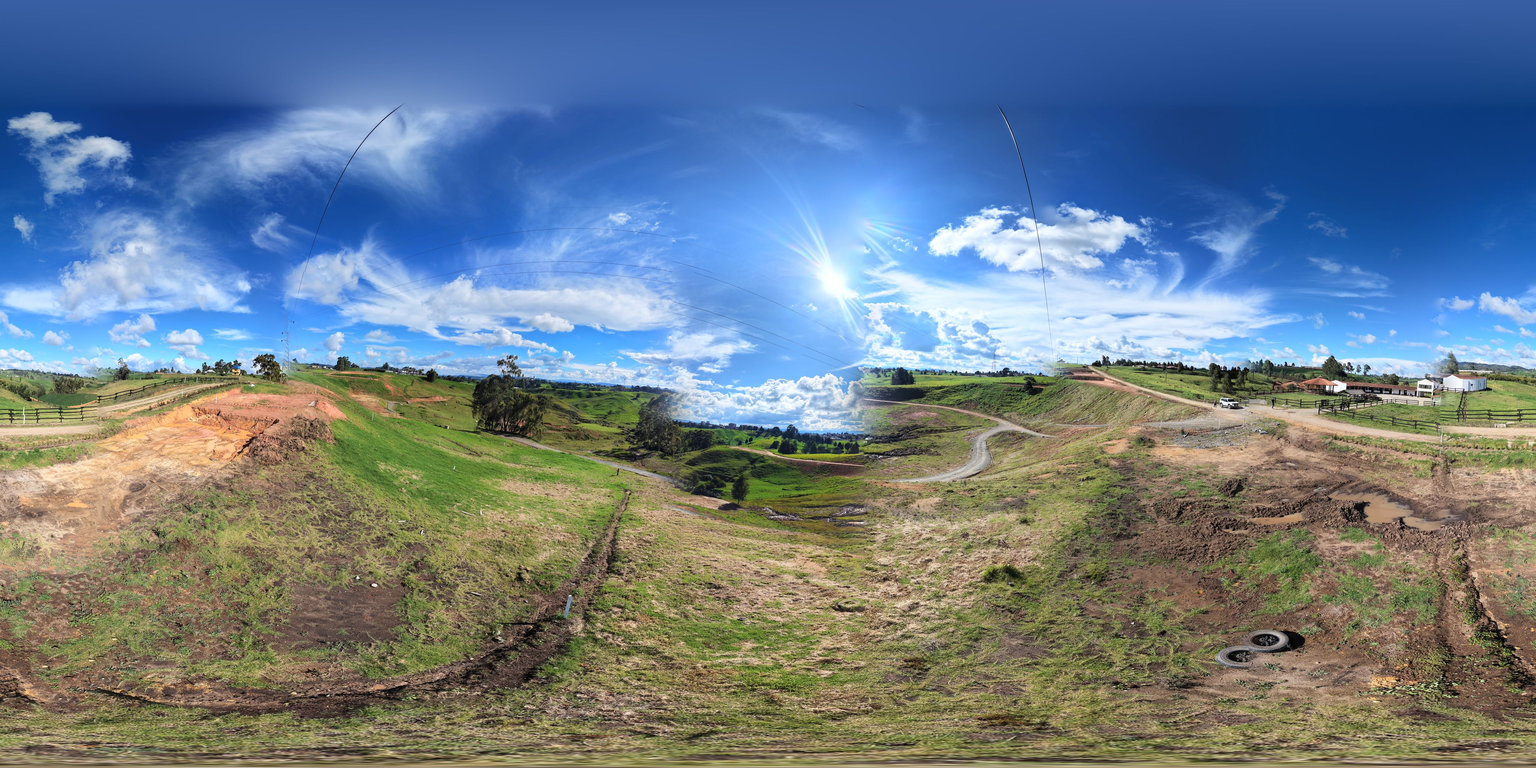
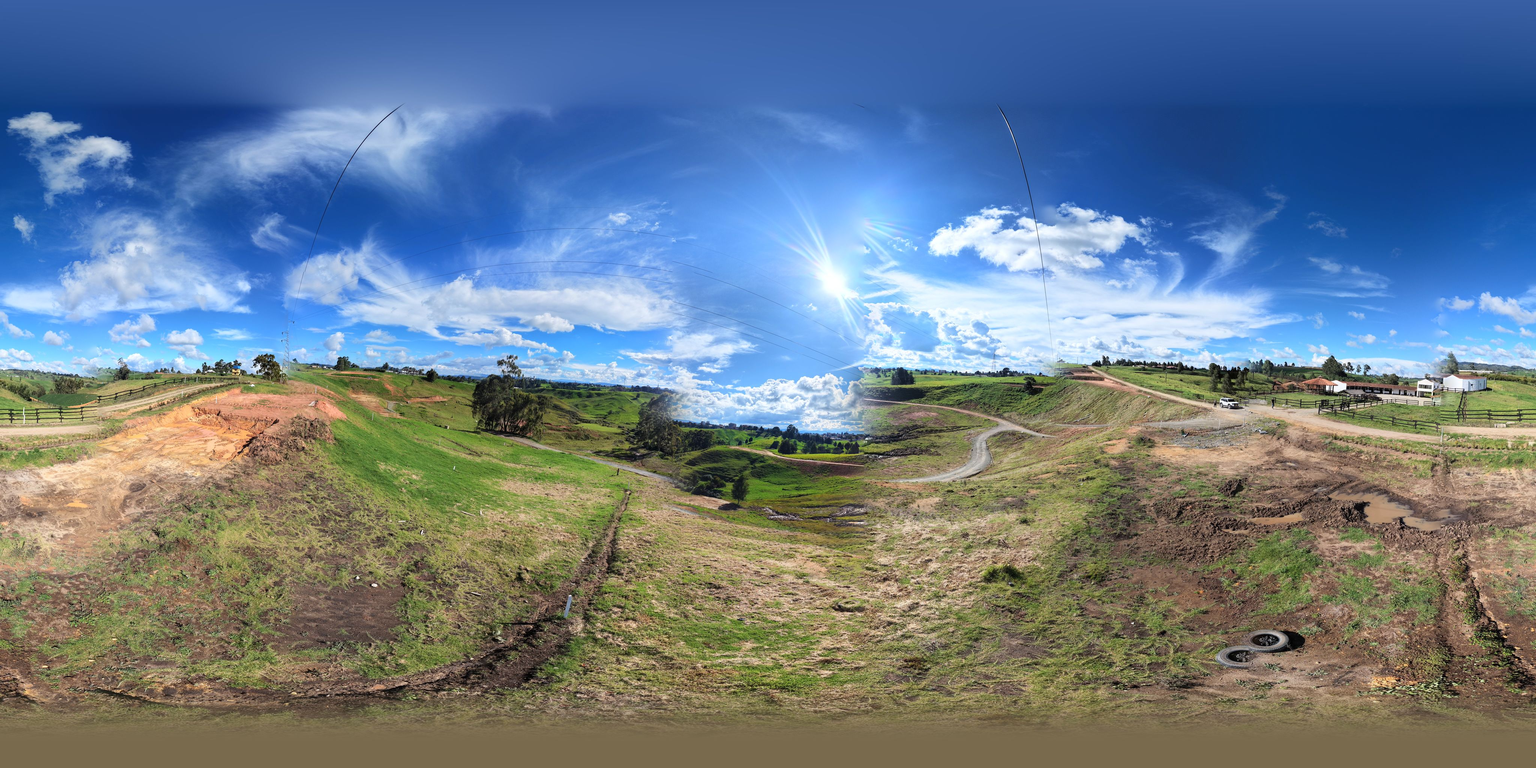
Salida desde la vista 360, y el borron del nadir tapado
NO SE PODIA CERRAR DESDE LA VISTA GRANDE. La X de arriba se esconde en ese
modo y el unico boton era «Salir», que solo achicaba y dejaba la ficha
abierta: quien abria el 360 a pantalla completa quedaba sin salida. Ahora la
barra lleva dos, que son dos cosas distintas — «Volver» regresa a la ficha y
la X cierra todo. Los dos a 44 px de alto; antes median 37.

La barra dice ahora «Lote 9 · $242.550.000» y no incluye el area: con las tres
cosas no alcanzaba el ancho de un telefono y lo que se cortaba era el final,
o sea el precio, que es justo lo que no puede faltar mientras alguien mira su
lote.

EL DESCUADRE ERA EL NADIR. Mirando derecho hacia abajo una esferica de dron no
tiene foto —el gimbal no ve su propia panza— y el DJI rellena estirando los
pixeles del borde: queda un remolino borroso, y en el lote 6 hasta se ve la
sombra del dron. Medido: la nitidez cae por debajo de la mitad entre -73 y -83
grados, y a -88 queda en 1,5 contra 14 en terreno normal. Se nota siempre
porque el visitante baja la vista para ver el lote y ahi es donde esta.

Se tapa fundiendo hacia el color medio del anillo que todavia esta nitido
(-68 a -72), con rampa suave. Queda un disco liso del color de la tierra en
vez de un remolino: se reconoce que ahi no hay foto en vez de fingirla.

No se arregla con `minPitch` porque para dejar el borron fuera del cuadro
habria que cortar en -39 grados, y ahi ya no se puede mirar el lote.
[…]

Changed region(s): [[0.0, 0.9062, 1.0, 1.0]]

diff --git a/assets/js/ficha.js b/assets/js/ficha.js
@@ -7,8 +7,8 @@
 // que `validarInventario` ya deja en números y estados de una lista cerrada.
 // Por eso esta ficha puede armarse directo del inventario y aquella no.
 
-import { validarInventario, precioDeLote } from './inventario.js?v=f7cc8c35';
-import { pesos, metros } from './formato.js?v=f7cc8c35';
+import { validarInventario, precioDeLote } from './inventario.js?v=85238aa1';
+import { pesos, metros } from './formato.js?v=85238aa1';
 
 // El número de ventas. Vive acá y el pie de página de index.html lo repite;
 // una prueba comprueba que sean el mismo, que es la única forma de que no se
@@ -138,11 +138,11 @@ function cargarPannellum() {
   pannellum = new Promise((listo, falla) => {
     const css = document.createElement('link');
     css.rel = 'stylesheet';
-    css.href = 'vendor/pannellum.css?v=f7cc8c35';
+    css.href = 'vendor/pannellum.css?v=85238aa1';
     document.head.appendChild(css);
 
     const js = document.createElement('script');
-    js.src = 'vendor/pannellum.js?v=f7cc8c35';
+    js.src = 'vendor/pannellum.js?v=85238aa1';
     js.onload = listo;
     js.onerror = () => falla(new Error('No se pudo cargar vendor/pannellum.js'));
     document.head.appendChild(js);
@@ -228,7 +228,11 @@ export function montarFicha(json, { svg, tarjetas, dialogo }) {
     // Lo que se lee arriba en pantalla completa. Ahí no caben la tabla de
     // datos ni el precio en su fila: si no se resume acá, el que está mirando
     // la vista deja de ver cuánto vale, que es la mitad de la decisión.
-    barra.textContent = `${f.titulo} · ${f.areaTexto} · ${f.precioTexto}`;
+    // Solo el lote y el precio. Con el area tambien, en un telefono la barra
+    // no alcanza y lo que se corta es el final — o sea el precio, que es
+    // justo lo que no puede faltar mientras alguien mira su lote. El area
+    // esta a un toque de «Volver».
+    barra.textContent = `${f.titulo} · ${f.precioTexto}`;
     if (!config) return;
 
     try {
@@ -262,6 +266,11 @@ export function montarFicha(json, { svg, tarjetas, dialogo }) {
 
   dialogo.querySelector('.ficha-agrandar').addEventListener('click', () => agrandar(true));
   dialogo.querySelector('.ficha-reducir').addEventListener('click', () => agrandar(false));
+  // Cerrar del todo desde la vista grande. No se usa un <form method="dialog">
+  // como la X de arriba: ese formulario vive dentro del cuerpo que se
+  // desplaza, y a pantalla completa el cuerpo esta ocupado por la vista.
+  dialogo.querySelector('.ficha-cerrar-todo')
+    .addEventListener('click', () => dialogo.close());
 
   // Con Esc, primero se sale de pantalla completa y solo después se cierra la
   // ficha. Cerrar de una en el primer Esc devuelve al visitante hasta el

diff --git a/index.html b/index.html
@@ -5,7 +5,7 @@
 <meta name="viewport" content="width=device-width, initial-scale=1">
 <title>Condominio Balcones — Santa Rosa de Osos</title>
 <meta name="description" content="Lotes de casa-finca en Santa Rosa de Osos. Escritura individual, agua potable del acueducto urbano, energía y vías.">
-<link rel="stylesheet" href="assets/css/estilos.css?v=f7cc8c35">
+<link rel="stylesheet" href="assets/css/estilos.css?v=85238aa1">
 <link rel="icon" href="img/favicon-32.png" sizes="32x32">
 <link rel="apple-touch-icon" href="img/apple-touch-icon.png">
 </head>
@@ -38,7 +38,11 @@
 <dialog id="ficha" class="ficha" aria-labelledby="ficha-titulo">
   <div class="ficha-barra">
     <span class="ficha-barra-texto"></span>
-    <button class="ficha-reducir" type="button">Salir</button>
+    <!-- Dos salidas distintas, y por eso dos botones. «Volver» devuelve a la
+         ficha; la ✕ cierra todo. Con solo «Salir» no habia forma de cerrar
+         desde la vista grande: achicaba y dejaba la ficha abierta. -->
+    <button class="ficha-reducir" type="button">Volver</button>
+    <button class="ficha-cerrar-todo" type="button" aria-label="Cerrar la ficha">✕</button>
   </div>
   <!-- Lo que se desplaza. El botón de WhatsApp queda FUERA a propósito: así
        se ve siempre, sin depender de un `sticky` dentro de una caja con
@@ -98,18 +102,18 @@
 </footer>
 
 <script type="module">
-  import { construirVistaVitrina } from './assets/js/vitrina.js?v=f7cc8c35';
-  import { pintarMapa } from './assets/js/mapa.js?v=f7cc8c35';
-  import { montarFicha } from './assets/js/ficha.js?v=f7cc8c35';
+  import { construirVistaVitrina } from './assets/js/vitrina.js?v=85238aa1';
+  import { pintarMapa } from './assets/js/mapa.js?v=85238aa1';
+  import { montarFicha } from './assets/js/ficha.js?v=85238aa1';
 
-  const inv = await (await fetch('data/lotes.json?v=f7cc8c35')).json();
+  const inv = await (await fetch('data/lotes.json?v=85238aa1')).json();
   const v = construirVistaVitrina(inv);
 
   // El plano se inserta en el documento (no como <img>) porque el color de
   // cada lote lo pone el CSS sobre los <path>, y a un <img> no se le puede
   // entrar desde afuera.
   const caja = document.getElementById('mapa');
-  caja.innerHTML = await (await fetch('img/mapa-aereo.svg?v=f7cc8c35')).text();
+  caja.innerHTML = await (await fetch('img/mapa-aereo.svg?v=85238aa1')).text();
   const vistaMapa = pintarMapa(caja.querySelector('svg'), inv);
 
   // La casilla de «Reservado» de la leyenda sale del dato, no de una decisión

diff --git a/socios/index.html b/socios/index.html
@@ -5,7 +5,7 @@
 <meta name="viewport" content="width=device-width, initial-scale=1">
 <meta name="robots" content="noindex, nofollow">
 <title>Balcones — Tablero de socios</title>
-<link rel="stylesheet" href="../assets/css/estilos.css?v=f7cc8c35">
+<link rel="stylesheet" href="../assets/css/estilos.css?v=85238aa1">
 <link rel="icon" href="../img/favicon-32.png" sizes="32x32">
 <script src="https://accounts.google.com/gsi/client" async></script>
 </head>
@@ -83,13 +83,13 @@
 </main>
 
 <script type="module">
-import { GOOGLE_CLIENT_ID, API_TABLERO } from '../assets/js/config.js?v=f7cc8c35';
-import { construirVistaTablero, escapar } from '../assets/js/tablero.js?v=f7cc8c35';
+import { GOOGLE_CLIENT_ID, API_TABLERO } from '../assets/js/config.js?v=85238aa1';
+import { construirVistaTablero, escapar } from '../assets/js/tablero.js?v=85238aa1';
 import {
   construirCifras, construirVistaLotes, construirVistaGastos, construirVistaSocios,
   construirTotalesLotes, construirVistaCaja, construirDetalleCifra
-} from '../assets/js/paneles.js?v=f7cc8c35';
-import { pintarMapa } from '../assets/js/mapa.js?v=f7cc8c35';
+} from '../assets/js/paneles.js?v=85238aa1';
+import { pintarMapa } from '../assets/js/mapa.js?v=85238aa1';
 
 const $ = (id) => document.getElementById(id);
 
@@ -161,7 +161,7 @@ function pintarFicha(f) {
 // entre el plano y la cartera. Va aparte del resto a propósito: si el plano
 // revienta, las cifras, los gastos y los avisos no tienen por qué caerse con él.
 async function montarPlano(vista) {
-  const inv = await (await fetch('../data/lotes.json?v=f7cc8c35')).json();
+  const inv = await (await fetch('../data/lotes.json?v=85238aa1')).json();
 
   // El plano se inserta en el documento (no como <img>) porque el color de
   // cada lote lo pone el CSS sobre los <path>, y a un <img> no se le puede
@@ -586,7 +586,7 @@ async function cargar(credencial) {
     const i = Number(boton.dataset.cifra);
     if (cifraAbierta === i) { cerrarDetalle(); return; }
 
-    if (inventario === null) inventario = await (await fetch('../data/lotes.json?v=f7cc8c35')).json();
+    if (inventario === null) inventario = await (await fetch('../data/lotes.json?v=85238aa1')).json();
     const d = construirDetalleCifra(cifras[i].clave, v, inventario);
     if (!d) return;
 

diff --git a/test/ficha.test.js b/test/ficha.test.js
@@ -215,3 +215,26 @@ test('la ficha cerrada no se dibuja dentro de la página', () => {
   assert.match(css, /\.ficha:not\(\[open\]\)\s*\{[^}]*display:\s*none/,
     'falta .ficha:not([open]) { display: none } y la ficha cerrada se va a ver');
 });
+
+// Desde la vista 360 a pantalla completa TIENE que poderse cerrar.
+//
+// Antes no se podia: la X de arriba se esconde en ese modo y el unico boton
+// era «Salir», que solo achicaba y dejaba la ficha abierta. El visitante que
+// abria la vista grande quedaba sin salida — «no cierra cuando se ve la foto
+// 360», textual.
+//
+// Ahora la barra lleva dos, y son dos cosas distintas: «Volver» devuelve a la
+// ficha y la X cierra todo.
+test('la vista a pantalla completa tiene con qué cerrar, no solo con qué volver', () => {
+  const html = readFileSync(new URL('../index.html', import.meta.url), 'utf8');
+  assert.match(html, /class="ficha-reducir"/, 'falta el botón que vuelve a la ficha');
+  assert.match(html, /class="ficha-cerrar-todo"/, 'falta el botón que cierra desde la vista grande');
+
+  const css = readFileSync(new URL('../assets/css/estilos.css', import.meta.url), 'utf8');
+  assert.match(css, /\.ficha\.agrandada \.ficha-cerrar-todo[^}]*display:\s*block/,
+    'el botón de cerrar no se muestra a pantalla completa');
+
+  const js = readFileSync(new URL('../assets/js/ficha.js', import.meta.url), 'utf8');
+  assert.match(js, /ficha-cerrar-todo[\s\S]{0,160}dialogo\.close\(\)/,
+    'el botón de cerrar de la barra no cierra el diálogo');
+});

diff --git a/assets/css/estilos.css b/assets/css/estilos.css
@@ -306,16 +306,27 @@ section, header, footer { padding: 2rem 1.25rem; max-width: 900px; margin: 0 aut
 .ficha.agrandada .ficha-agrandar { display: none; }
 
 .ficha.agrandada .ficha-barra {
-  display: flex; align-items: center; justify-content: space-between; gap: 1rem;
-  padding: .75rem 1rem;
+  display: flex; align-items: center; gap: .5rem;
+  padding: .5rem .75rem;
   background: var(--verde-marca); color: #f3efe4;
-  font-size: .95rem;
+  font-size: .9rem;
 }
+/* Los dos de la barra, con 44 px de alto: es el minimo para un dedo y antes
+   median 37. */
+.ficha-barra-texto { flex: 1; min-width: 0; overflow: hidden; text-overflow: ellipsis; white-space: nowrap; }
 .ficha.agrandada .ficha-reducir {
   font: inherit; font-weight: 600; white-space: nowrap;
   color: var(--verde-marca); background: #f3efe4;
-  border: 0; border-radius: 999px; padding: .4rem 1rem; cursor: pointer;
+  border: 0; border-radius: 999px; padding: 0 1.1rem; height: 44px; cursor: pointer;
 }
+.ficha.agrandada .ficha-cerrar-todo {
+  font: inherit; font-size: 1.15rem; line-height: 1;
+  color: #f3efe4; background: none; border: 0;
+  width: 44px; height: 44px; padding: 0; border-radius: 8px; cursor: pointer;
+}
+/* Fuera de la vista grande la barra entera no existe, botones incluidos. */
+.ficha-cerrar-todo { display: none; }
+.ficha.agrandada .ficha-cerrar-todo { display: block; }
 .ficha.agrandada .ficha-cuerpo {
   flex: 1; min-height: 0; padding: 0; overflow: hidden;
   display: flex; flex-direction: column;

diff --git a/assets/js/paneles.js b/assets/js/paneles.js
@@ -12,8 +12,8 @@
 // mismo dato que pinta el plano y la vitrina pública: números y estados
 // validados por `validarInventario`, sin texto libre de nadie.
 
-import { pesos, metros, pesosConSigno, porcentaje } from './formato.js?v=f7cc8c35';
-import { validarInventario, precioDeLote } from './inventario.js?v=f7cc8c35';
+import { pesos, metros, pesosConSigno, porcentaje } from './formato.js?v=85238aa1';
+import { validarInventario, precioDeLote } from './inventario.js?v=85238aa1';
 
 // Los rótulos largos vienen del nombre de la fila en la hoja («Disponible»,
 // «Gastado en obra»). En la fila de seis cifras no caben y además «Disponible»

diff --git a/assets/js/vitrina.js b/assets/js/vitrina.js
@@ -1,5 +1,5 @@
-import { resumenInventario, lotesDisponibles } from './inventario.js?v=f7cc8c35';
-import { pesos, metros } from './formato.js?v=f7cc8c35';
+import { resumenInventario, lotesDisponibles } from './inventario.js?v=85238aa1';
+import { pesos, metros } from './formato.js?v=85238aa1';
 
 // Lo que se lee ARRIBA del plano, antes de verlo.
 //

diff --git a/assets/js/mapa.js b/assets/js/mapa.js
@@ -1,5 +1,5 @@
-import { validarInventario, resumenInventario } from './inventario.js?v=f7cc8c35';
-import { metros } from './formato.js?v=f7cc8c35';
+import { validarInventario, resumenInventario } from './inventario.js?v=85238aa1';
+import { metros } from './formato.js?v=85238aa1';
 
 // El plano de lotes se pinta desde data/lotes.json.
 //

diff --git a/assets/js/tablero.js b/assets/js/tablero.js
@@ -1,4 +1,4 @@
-import { pesos, porcentaje } from './formato.js?v=f7cc8c35';
+import { pesos, porcentaje } from './formato.js?v=85238aa1';
 
 const ETIQUETAS = [
   ['vendido', 'Vendido'], ['abonado', 'Abonado'], ['porCobrar', 'Por cobrar'],

diff --git a/herramientas/preparar-panoramicas.py b/herramientas/preparar-panoramicas.py
@@ -42,9 +42,10 @@ import sys
 from pathlib import Path
 
 try:
+    import numpy as np
     from PIL import Image, ImageOps
 except ImportError:
-    sys.exit('Falta Pillow. Instalalo con:  python3 -m pip install Pillow')
+    sys.exit('Faltan Pillow o numpy. Se instalan con:  python3 -m pip install Pillow numpy')
 
 RAIZ = Path(__file__).resolve().parent.parent
 INVENTARIO = RAIZ / 'data' / 'lotes.json'
@@ -146,6 +147,90 @@ def revisar(origen, inv):
     return trabajos, problemas
 
 
+def tapar_nadir(im):
+    """Tapa el borron de debajo del dron con el color del propio suelo.
+
+    EL DEFECTO. Mirando derecho hacia abajo, una esferica de dron no tiene
+    foto: el gimbal no ve su propia panza. El DJI rellena estirando los
+    pixeles del borde, y queda un remolino borroso — en el lote 6 hasta se ve
+    la sombra del dron. Medido sobre las siete del 2-sep-2026: la nitidez cae
+    por debajo de la mitad entre -73 y -83 grados, y a -88 queda en 1,5
+    contra 14 en terreno normal. Es lo que se nota SIEMPRE, porque el visitante
+    baja la vista para ver el lote y ahi es donde esta.
+
+    POR QUE NO SE ARREGLA PROHIBIENDO MIRAR ABAJO. Con `minPitch` habria que
+    cortar en -39 grados para que el borron no entre ni por el borde del
+    cuadro, y ahi ya no se puede mirar el lote, que es justo lo que se vende.
+
+    EL ARREGLO. Se toma el color medio del anillo que todavia esta nitido
+    (-68 a -72) y se funde hacia el todo lo de mas abajo, con una rampa suave.
+    Queda un disco liso del color de la tierra en vez de un remolino. No se
+    inventa detalle: se reconoce que ahi no hay foto y se deja de fingir.
+    """
+    a = np.asarray(im, dtype=np.float32)
+    alto, ancho, _ = a.shape
+    fila = lambda p: int((90 - p) / 180 * alto)
+
+    inicio, fin = fila(-70), fila(-84)
+    anillo = a[fila(-68):fila(-72)].reshape(-1, 3).mean(axis=0)
+
+    for y in range(inicio, alto):
+        # 0 en el borde de arriba del parche, 1 de -84 para abajo
+        t = min(1.0, (y - inicio) / max(1, fin - inicio))
+        t = t * t * (3 - 2 * t)                     # suavizado, sin borde duro
+        a[y] = a[y] * (1 - t) + anillo * t
+    return Image.fromarray(np.clip(a, 0, 255).astype(np.uint8))
+
+
+def nivelar_costura(im):
+    """Empareja el brillo de los dos bordes que se juntan en el circulo.
+
+    EL DEFECTO. Una equirectangular se cierra sobre si misma: la columna de
+    mas a la izquierda queda pegada a la de mas a la derecha. Las dos son el
+    mismo pedazo de mundo, pero se fotografiaron con minutos de diferencia y
+    con las nubes moviendose, asi que el DJI las deja con brillos distintos.
+    Medido sobre las siete del 2-sep-2026: saltos de 5,5 a 8,7 niveles en el
+    cielo, cuando a ojo se nota desde 1,5. Y como la vista gira sola, el
+    visitante pasa por esa raya en cada vuelta -- por eso «siempre se nota».
+
+    EL ARREGLO. Se mide la diferencia entre los dos bordes fila por fila y se
+    reparte a lo ancho de toda la imagen con una rampa. Los bordes quedan
+    iguales y el ajuste se diluye en 4.096 pixeles: seis niveles repartidos
+    son 0,15 por cada cien pixeles, invisible. La rampa va centrada para no
+    aclarar ni oscurecer la foto en promedio.
+
+    No se toca el contenido: esto corrige exposicion, no geometria. Si dos
+    bordes mostraran cosas distintas la rampa las embarraria, pero no es el
+    caso -- son vecinos en el mundo.
+    """
+    a = np.asarray(im, dtype=np.float32)
+    alto, ancho, _ = a.shape
+    borde = max(4, ancho // 512)
+
+    izq = a[:, :borde, :].mean(axis=1)      # (alto, 3)
+    der = a[:, -borde:, :].mean(axis=1)
+    dif = izq - der
+
+    # Suavizado vertical: la diferencia real cambia despacio de arriba abajo;
+    # lo que cambia rapido es ruido de una fila concreta.
+    k = max(9, alto // 24) | 1
+    nucleo = np.ones(k) / k
+    for c in range(3):
+        dif[:, c] = np.convolve(np.pad(dif[:, c], k // 2, mode='edge'), nucleo, mode='valid')
+
+    rampa = (np.arange(ancho, dtype=np.float32) / (ancho - 1)) - 0.5
+    ajustada = a + dif[:, None, :] * rampa[None, :, None]
+    return Image.fromarray(np.clip(ajustada, 0, 255).astype(np.uint8), 'RGB')
+
+
+def salto_en_la_costura(im):
+    """Cuanto se nota el empalme, en niveles de brillo. Para poder decirlo."""
+    a = np.asarray(im.convert('L'), dtype=np.float32)
+    alto, ancho = a.shape
+    cielo = a[int(alto * 0.08):int(alto * 0.30)]
+    return float(abs(cielo[:, 0].mean() - cielo[:, -1].mean()))
+
+
 def procesar(trabajo, escribir):
     salida = DESTINO / f'lote-{trabajo["n"]:02d}.jpg'
     if not escribir:
@@ -155,6 +240,8 @@ def procesar(trabajo, escribir):
     with Image.open(trabajo['ruta']) as im:
         im = ImageOps.exif_transpose(im).convert('RGB')
         im = im.resize((ANCHO, ALTO), Image.LANCZOS)
+        trabajo['costura'] = (salto_en_la_costura(im),)
+        im = tapar_nadir(im)
         im.save(salida, 'JPEG', quality=CALIDAD, optimize=True, progressive=True)
     return salida, mide(salida)
 
@@ -190,7 +277,9 @@ def main():
         if mb is None:
             print(f'  lote {t["n"]:>2}  {t["ancho"]}x{t["alto"]}  {t["mb"]:.1f} MB  ->  {destino}{aviso}')
         else:
-            print(f'  lote {t["n"]:>2}  {t["mb"]:.1f} MB  ->  {destino}  {mb:.1f} MB{aviso}')
+            c = t.get('costura')
+            costura = '' if not c else f'   empalme {c[0]:.1f} · nadir tapado'
+            print(f'  lote {t["n"]:>2}  {t["mb"]:.1f} MB  ->  {destino}  {mb:.1f} MB{costura}{aviso}')
 
     if args.escribir:
         conPano = {t['n'] for t in trabajos}
